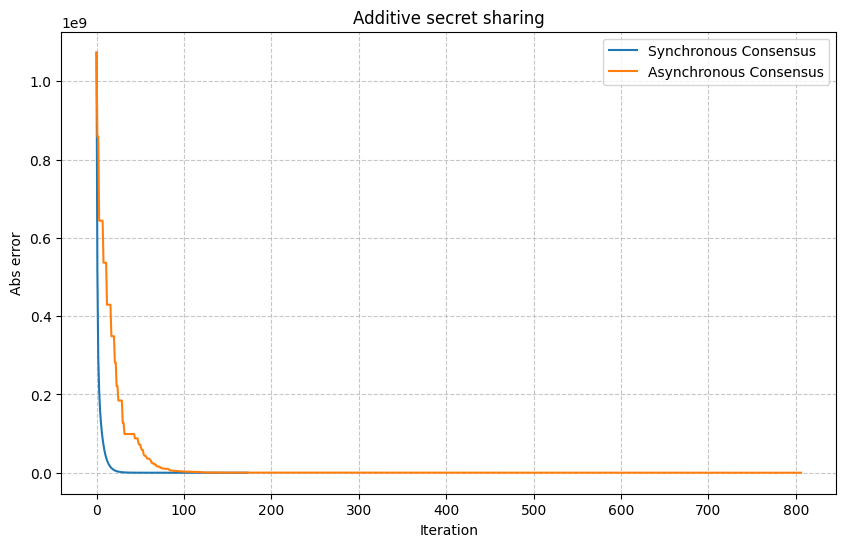
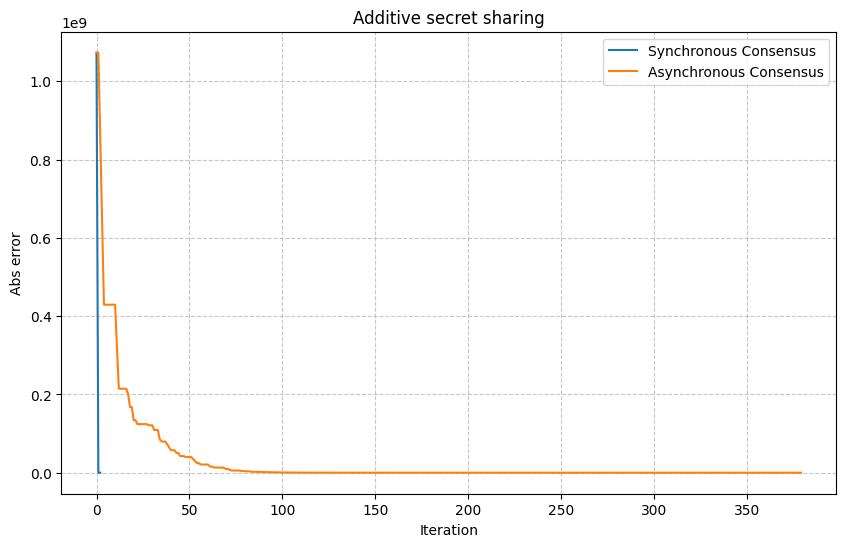
works now

diff --git a/src/graph.py b/src/graph.py
@@ -78,7 +78,7 @@ class Graph:
         privacy_offset_p = final_avg_s_p - true_avg_s
 
         labels = {
-            node.id: f"{node.id}\n{node.initial_val:.1f} -> {node.val - privacy_offset_p:.1f}"
+            node.id: f"{node.id}\n{node.initial_val} -> {node.val - privacy_offset_p:.1f}"
             for node in self.nodes
         }
 
@@ -106,5 +106,5 @@ class Graph:
 
     def assign_initial_values(self, low=10, high=100):
         for node in self.nodes:
-            node.val = random.uniform(low, high)
+            node.val = random.randint(low, high)
             node.initial_val = node.val

diff --git a/src/utils.py b/src/utils.py
@@ -24,9 +24,9 @@ def plot_convergence(title, sync_errors, async_errors, filename="img/comparison.
 
 
 def avg_error(history, true_avg):
+    offset = np.mean(history[0]) - true_avg
     errors = []
     for vals in history:
-        vals = np.array(vals, dtype=float)
-        err = np.mean(np.abs(vals - true_avg))
-        errors.append(err)
+        vals = np.array(vals) - offset
+        errors.append(np.mean(np.abs(vals - true_avg)))
     return errors

diff --git a/src/consensus.py b/src/consensus.py
@@ -2,7 +2,7 @@ from src.graph import Graph
 import random
 import numpy as np
 
-tol = 0.00001
+tol = 0.01
 
 
 def sync_consensus(graph: Graph, eps=0.1, max_iters=2000, tol=tol):
@@ -44,7 +44,7 @@ def weight_matrix(graph, eps=0.1):
     return W
 
 
-def async_consensus(graph: Graph, max_iters=1000, tol=tol):
+def async_consensus(graph: Graph, max_iters=20000, tol=tol):
     values = [n.val for n in graph.nodes]
     history = [values.copy()]
 

diff --git a/main.py b/main.py
@@ -27,9 +27,9 @@ def main():
 
     g = Graph(num_nodes=args.nodes, topology=args.top)
     g.assign_initial_values(20, 80)
+    true_avg = np.mean([n.initial_val for n in g.nodes])
     additive_secret_share_matrix(g)
 
-    true_avg = np.mean([n.val for n in g.nodes])
     print(
         f"Graph Topology: {args.top}, Nodes: {args.nodes}, True Average: {true_avg:.4f}"
     )
